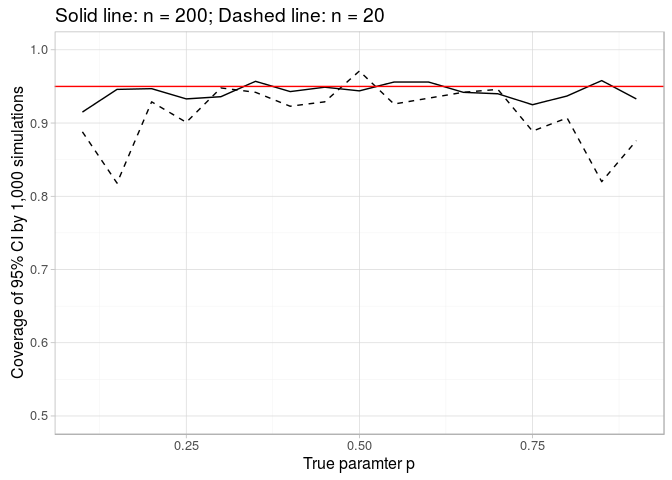
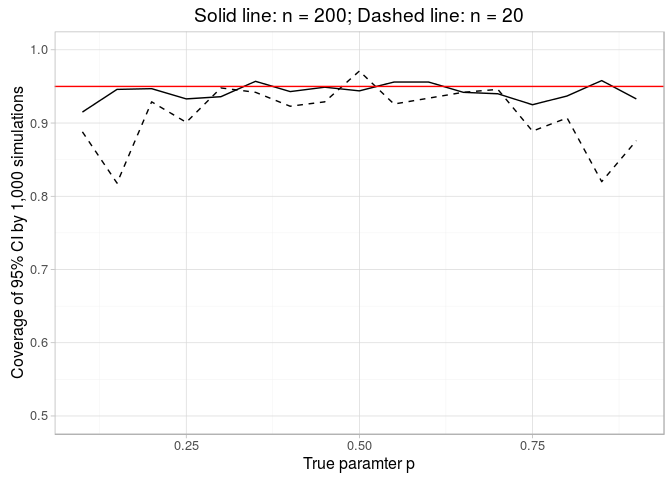
t-test

Changed region(s): [[0.0938, 0.0, 0.7812, 0.0625]]

diff --git a/03-simulations/projects/01-inference-book/01-inference-book.md b/03-simulations/projects/01-inference-book/01-inference-book.md
@@ -68,7 +68,7 @@ ggplot(data.frame(mean = sim_means), aes(mean)) + geom_histogram() +
   geom_vline(xintercept = c(-sim_means_sd, sim_means_sd)) 
 ```
 
-![](figures/ex1_hist-1.png)<!-- -->
+![](figures/ex1_hist-1.png) 
  
 ## Confidence interval for the mean
 
@@ -171,11 +171,76 @@ sim_cov_n200 <-
   sapply(. %>% simulate_coverage(nsim = 1000, n = 200, .))
 ```
 
-![](figures/plot_bi_cov-1.png)<!-- -->
+![](figures/plot_bi_cov-1.png) 
 
 The bad coverage for the case $n = 20$ demonstrates that 
 the CLT applicability for CIs requires a large sample size.
 
 
+## T-test
 
+The t-statistics for one-sampe test:
+
+$\frac{\bar{X_n}  - \mu_0}{S / \sqrt{n}}$
+
+
+
+```r
+data(father.son, package = "UsingR")
+x <- with(father.son, sheight - fheight)
+t.test(x)
+```
+
+```
+
+	One Sample t-test
+
+data:  x
+t = 11.789, df = 1077, p-value < 2.2e-16
+alternative hypothesis: true mean is not equal to 0
+95 percent confidence interval:
+ 0.8310296 1.1629160
+sample estimates:
+mean of x 
+0.9969728 
+```
+
+Condidence intervals:
+
+
+```r
+alpha <- 0.05
+n <- length(x)
+df <- n - 1
+
+mean(x) + c(-1, 0, 1) * qt(1 - alpha/2, df) * sd(x) / sqrt(n)
+```
+
+```
+[1] 0.8310296 0.9969728 1.1629160
+```
+
+Statistics:
+
+
+```r
+ts <- mean(x) / (sd(x) / sqrt(n))
+# two-tailed test
+2 * pt(ts, df, lower.tail = FALSE)
+```
+
+```
+[1] 2.957226e-30
+```
+
+
+```r
+data_frame(x = c(-15, -5, seq(-3, 3, by = 0.1), 5, 15)) %>%
+  mutate(y = dt(x, df = df)) %>%
+  ggplot(aes(x, y)) + 
+    geom_line() + geom_vline(xintercept = ts, color = "red") +
+    labs(title = paste("Standard t-distribution with df =", df))
+```
+
+![](figures/plot_tdist-1.png) 
 
